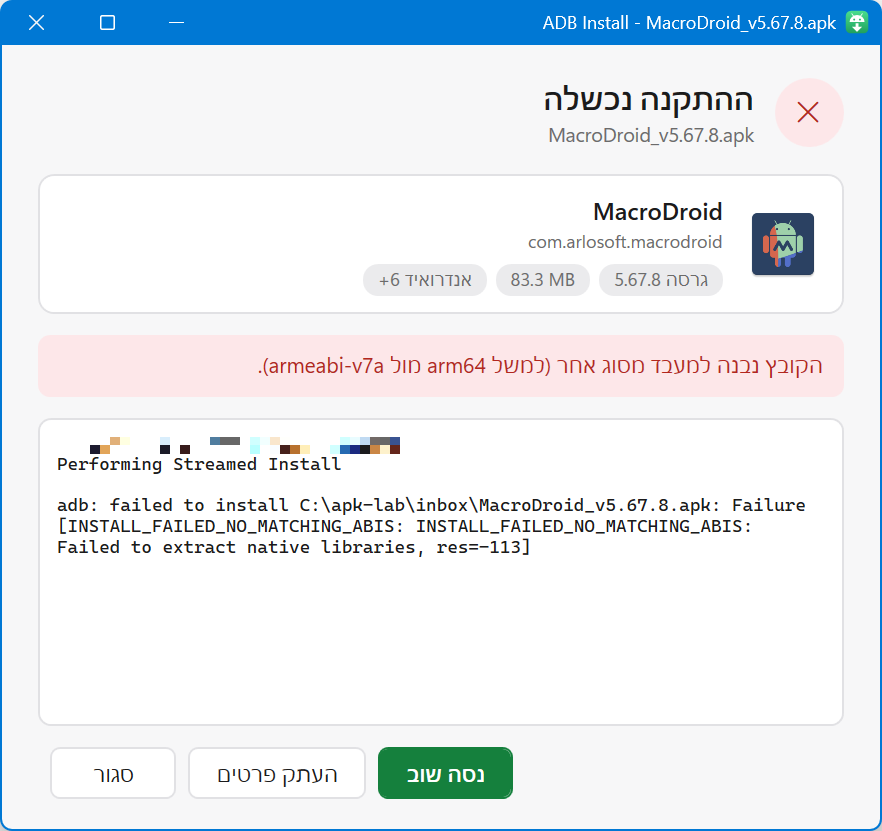
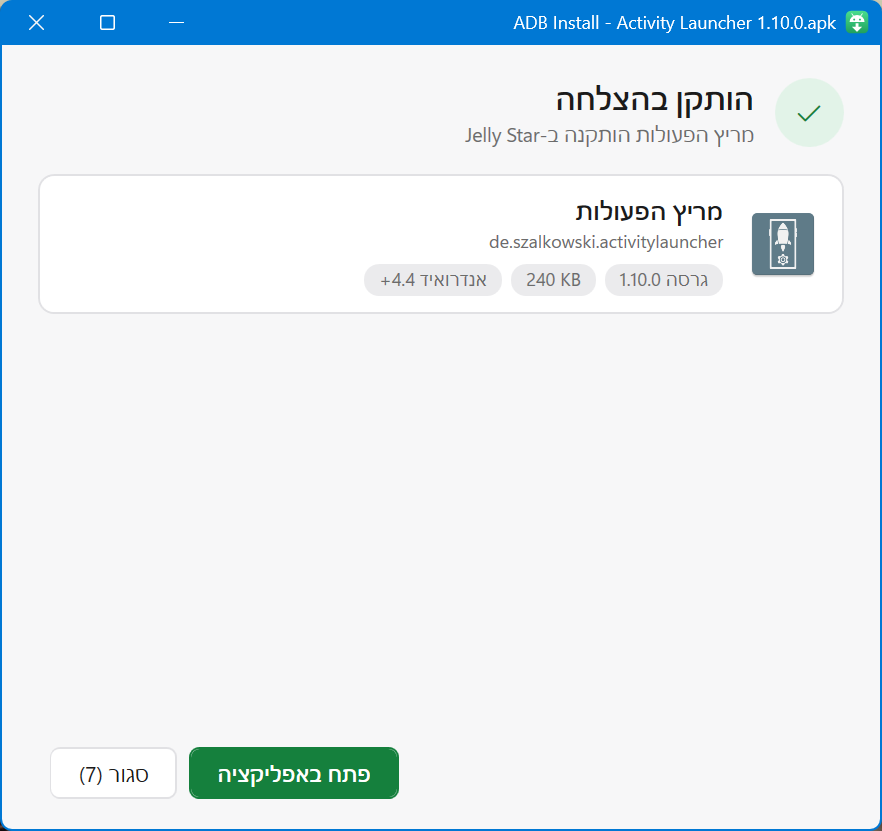
Show a successful install in the README screenshot

diff --git a/README.md b/README.md
@@ -15,7 +15,7 @@
 | ![קבצים בטלפון](docs/screenshots/files.png) | ![שיקוף מסך](docs/screenshots/mirror.png) |
 | **קבצים בטלפון:** הורדה, העלאה ומחיקה | **שיקוף מסך:** עברית ואנגלית מתחלפות יחד עם המחשב |
 | ![חלון ההתקנה](docs/screenshots/install.png) | ![תוכנת ההתקנה](docs/screenshots/setup.png) |
-| **התקנה בלחיצה כפולה:** פרטי האפליקציה והסבר בעברית כשמשהו נכשל | **תוכנת ההתקנה:** בלי הרשאות מנהל |
+| **התקנה בלחיצה כפולה:** פרטי האפליקציה, ופתיחה שלה מיד בסיום | **תוכנת ההתקנה:** בלי הרשאות מנהל |
 
 ## מה אפשר לעשות
 
